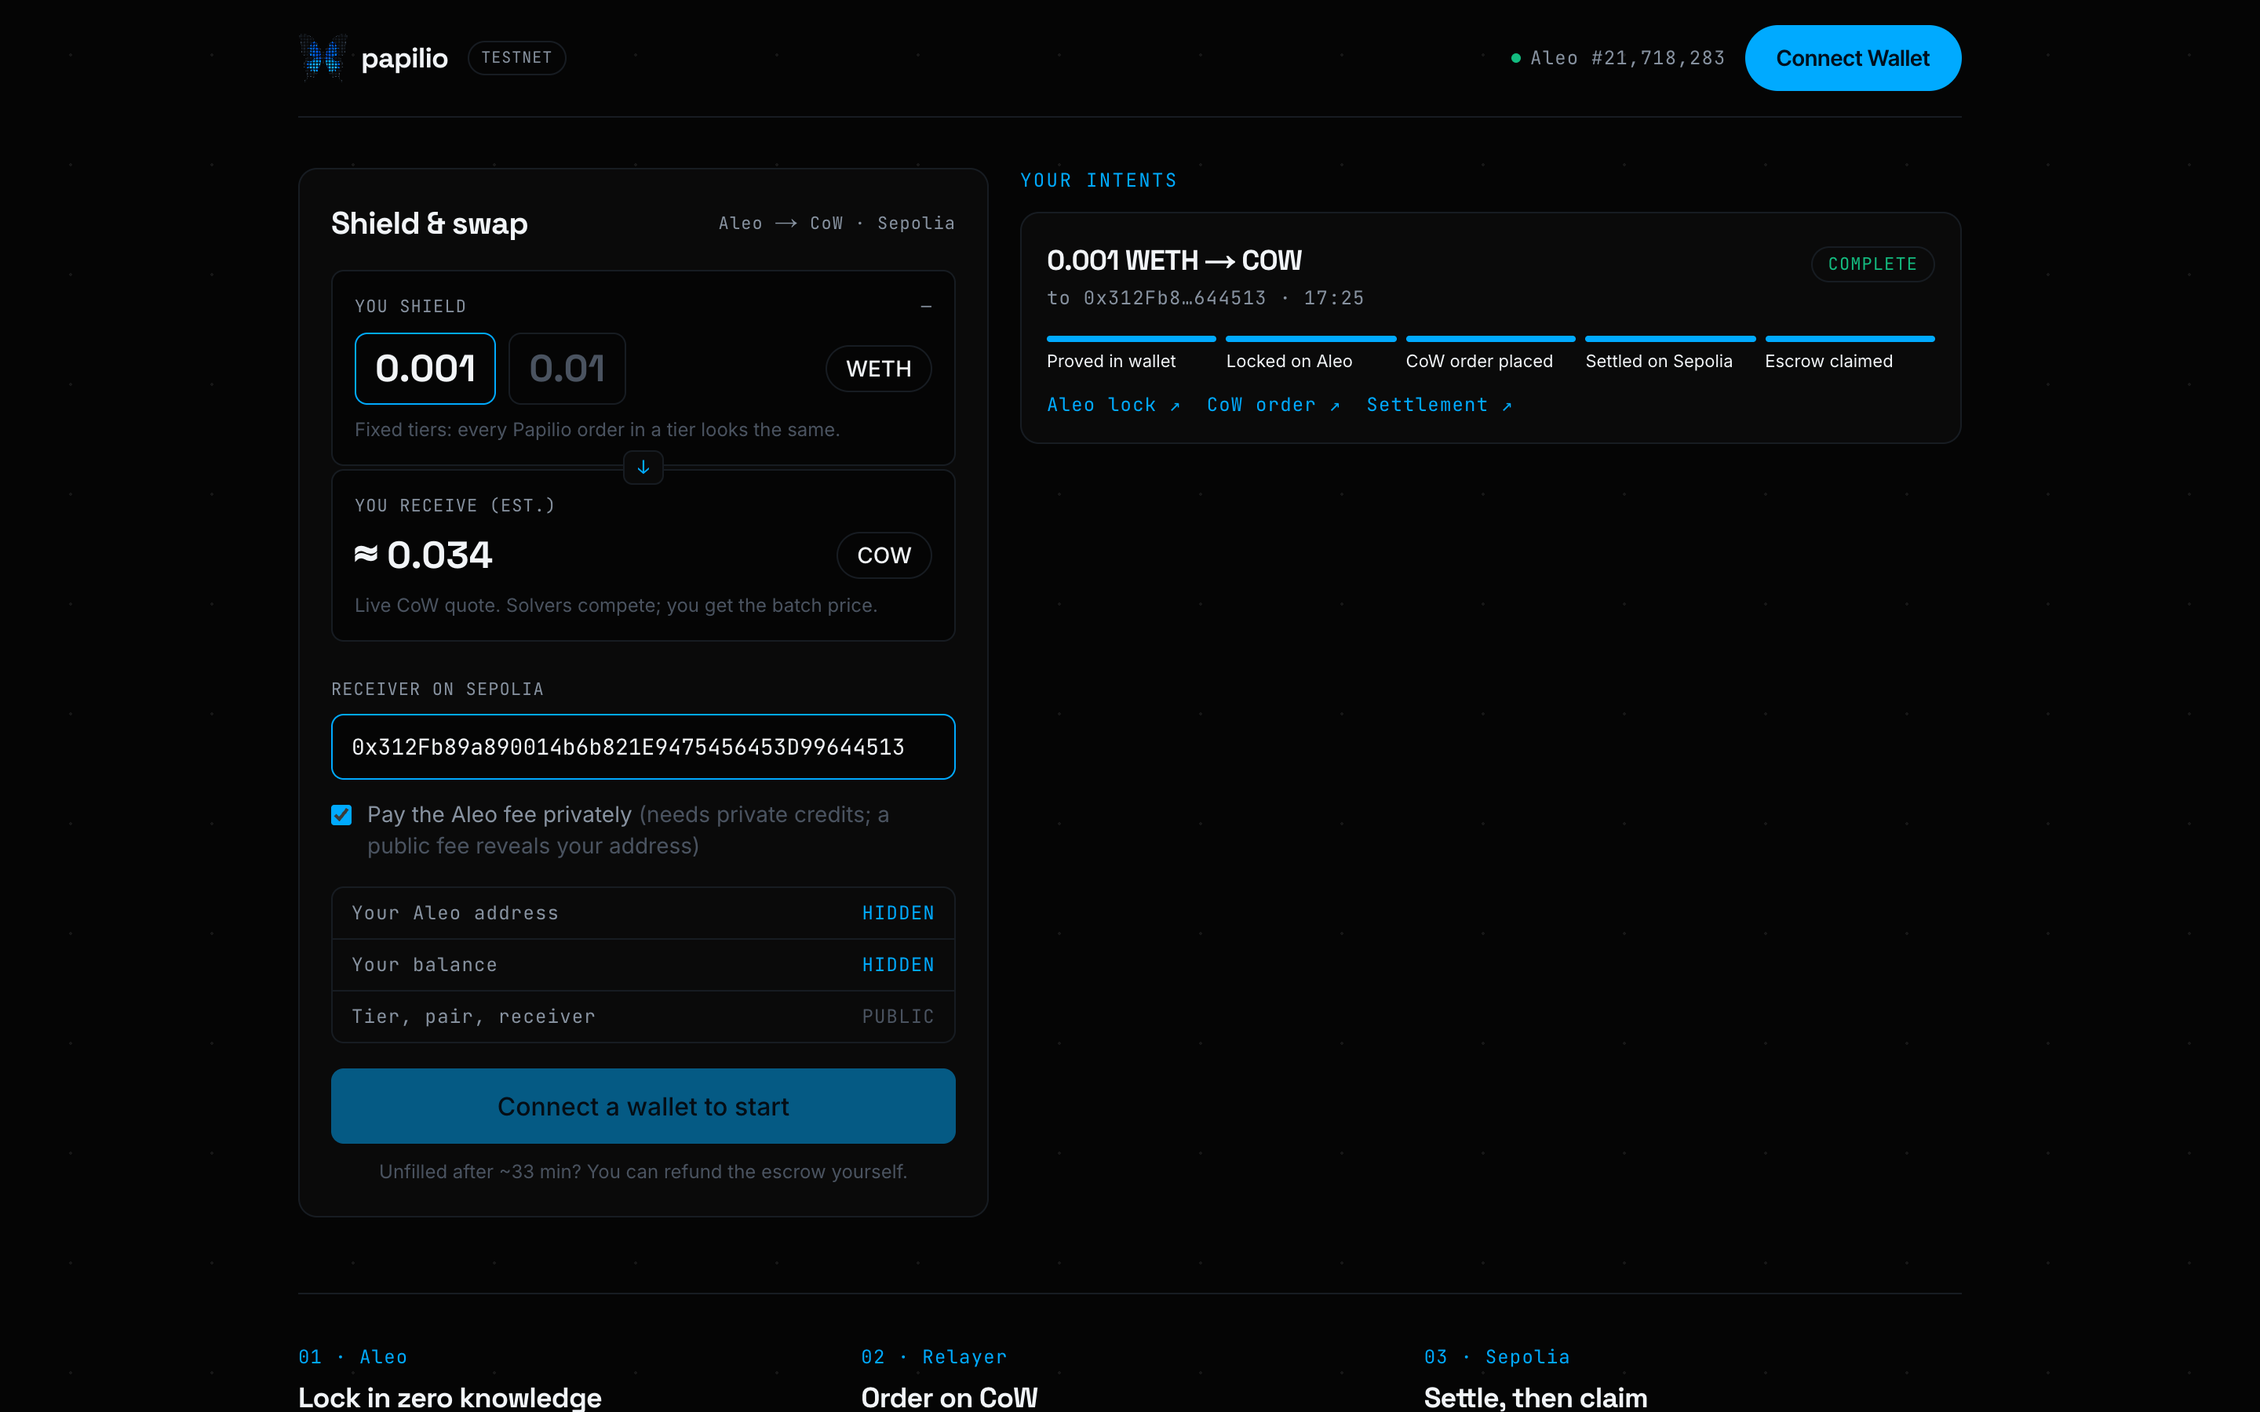
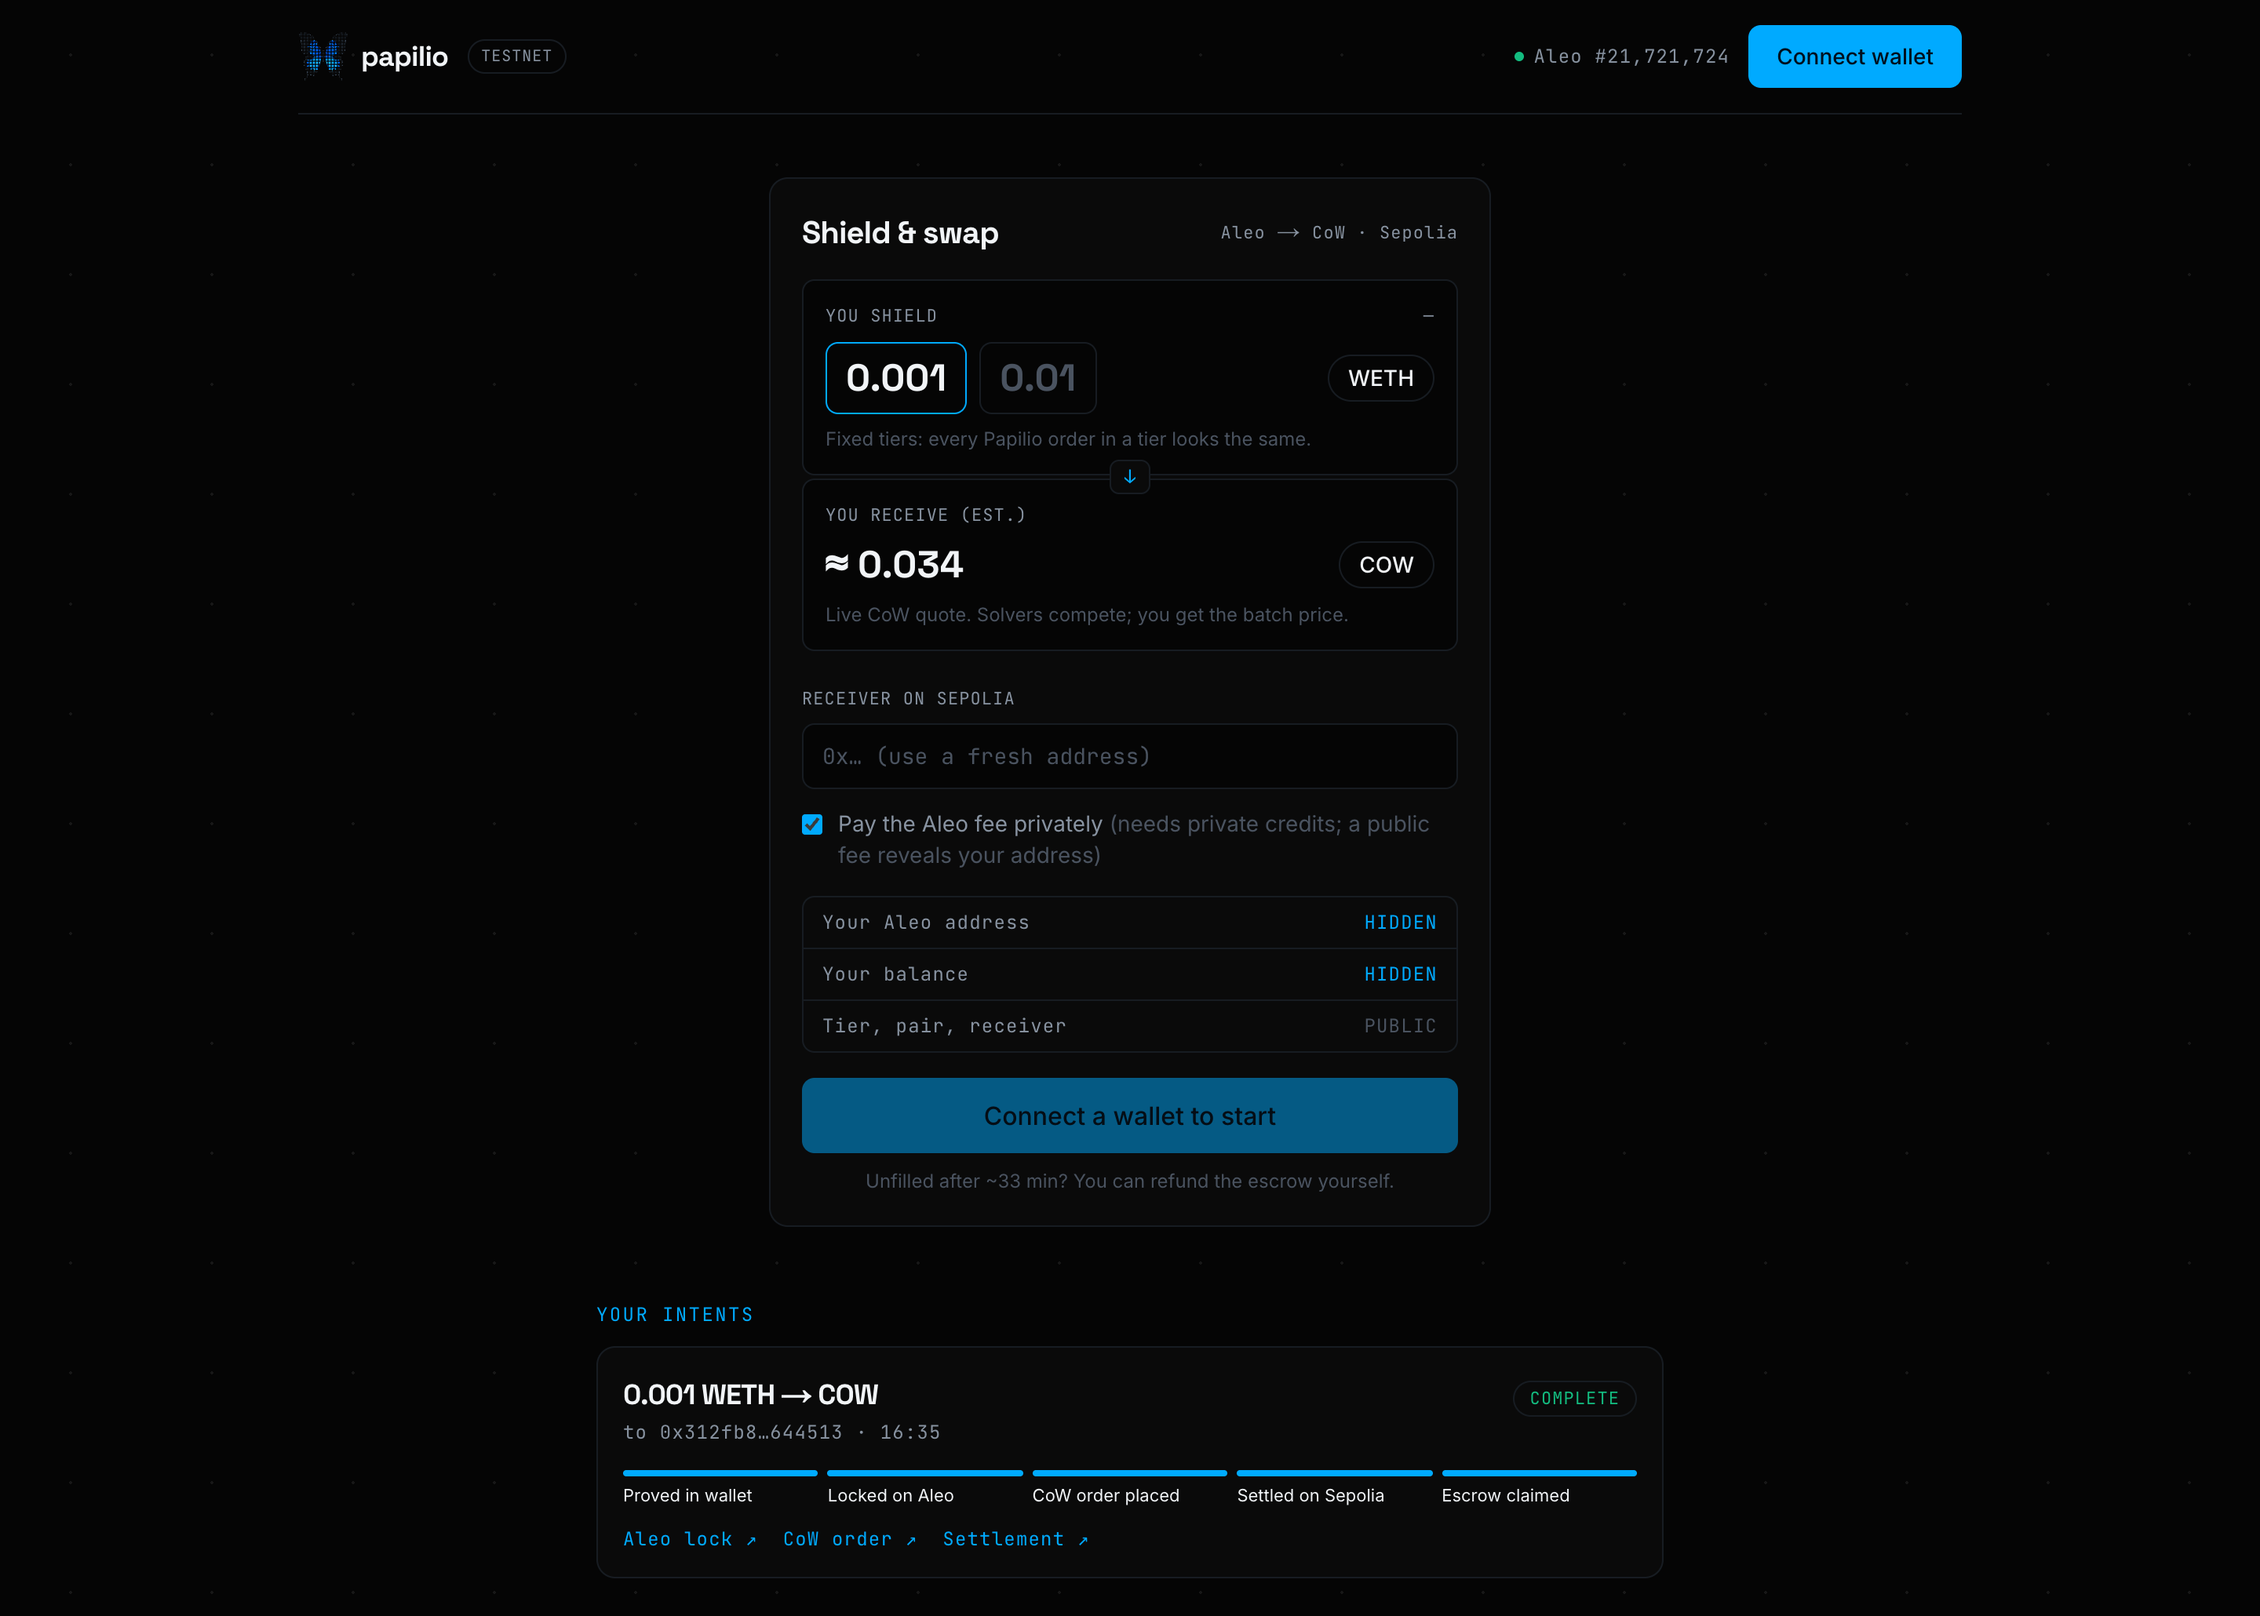
Retake launch screenshots from the live site
- app-screenshot.png: the current centred layout, tracking the real
  settled testnet trade (status fetched live from Aleo and CoW).
- testnet-proof-screenshot.png: fresh capture of /testnet.

diff --git a/launch/README.md b/launch/README.md
@@ -19,7 +19,7 @@ Everything for launching Papilio and applying for grants. Start with
 | `launch-post.png` | 1080×1080 announcement image |
 | `x-banner.png` | 1500×500 X/Twitter header |
 | `how-it-works.png` | 1600×900 three-step diagram |
-| `app-screenshot.png` | The live app tracking a real settled trade |
+| `app-screenshot.png` | The live app (current layout) tracking the real settled testnet trade |
 | `testnet-proof-screenshot.png` | The /testnet proof page |
 
 The grant drafts are filled in. One gap left: the payout wallet address in the full CoW application.
